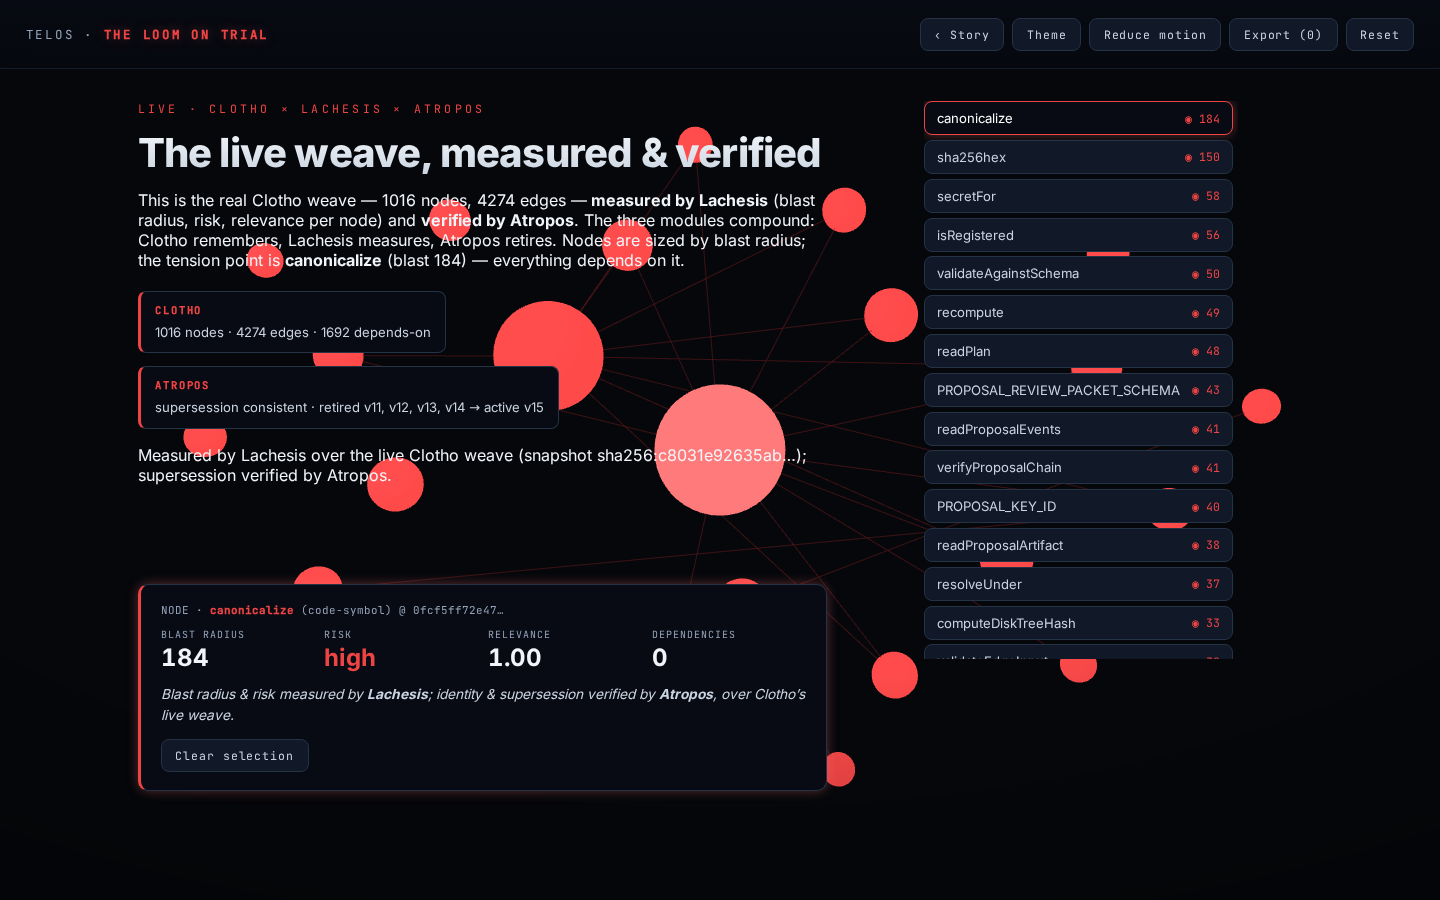
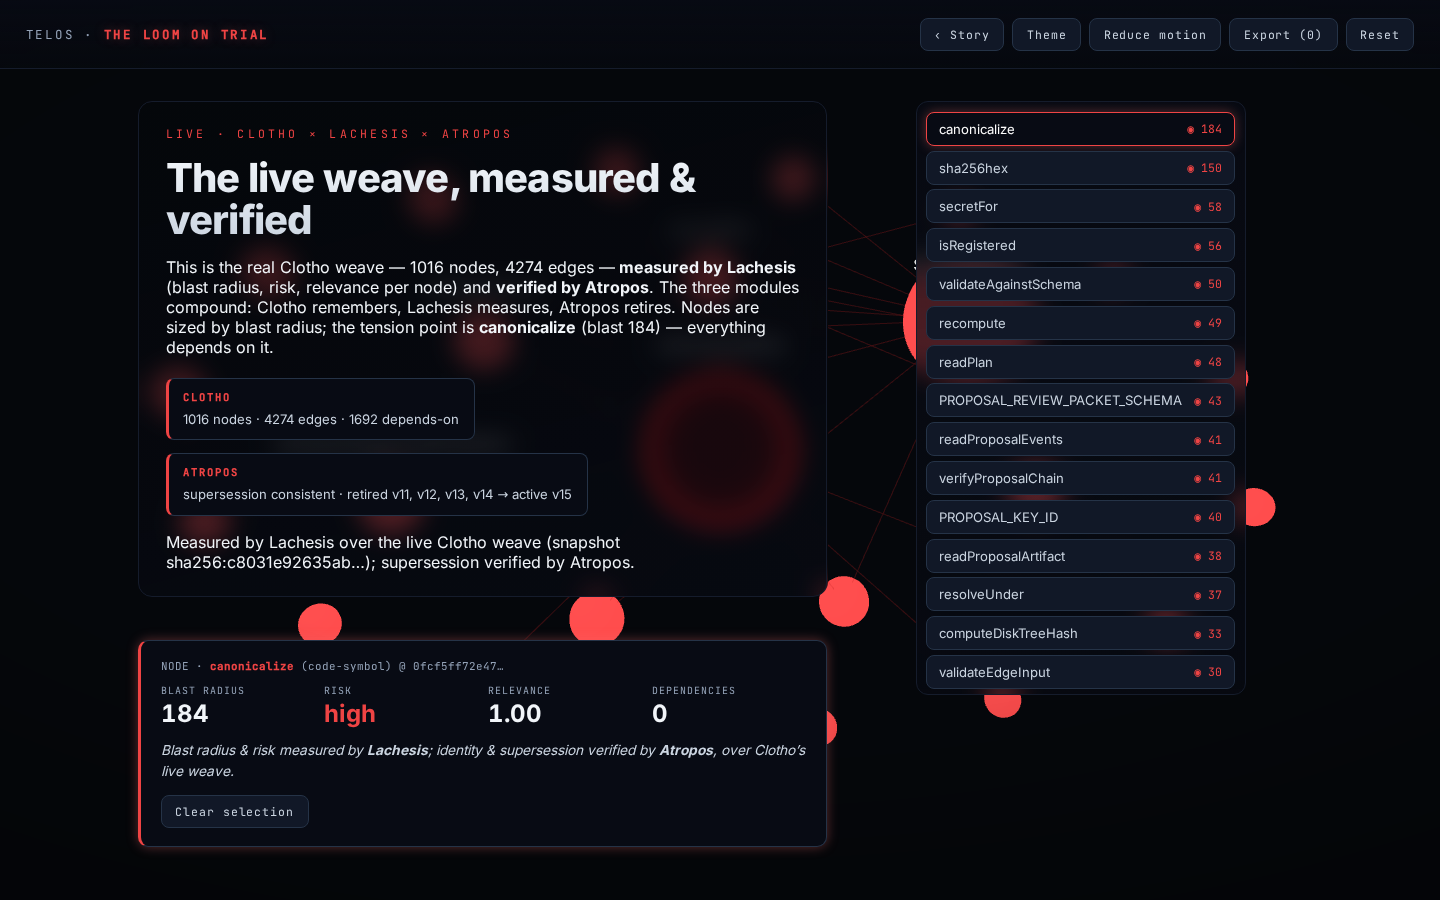
iliad(narcissus argo): reflection-loop pass 1 toward award-tier (labels, ferrofluid hub, layout, PERF -70%)
The Eye approved direction -> refine toward Awwwards-SOTY. This pass: (1) in-scene billboarded labels on the
top nodes (CanvasTexture sprites, no new deps, culled to top 5); (2) fresnel/ferrofluid SHADER on the hub
(canonicalize) — glowing red rim bloom, LEXI-orb lineage; (3) concentric-ring layout + z-parallax (woven
depth); frosted-glass DOM panels so the weave reads cleanly behind them (fixed label/panel collision);
(4) PERF: React.lazy the WebGL canvases + manualChunks -> initial JS 1023KB -> ~305KB (70% cut; three.js
now a 715KB ASYNC chunk after LCP). Invariant intact (WebGL paint, DOM-shadowed, ?e2e=1). All gates green:
tsc+vite, verify-coverage 16/16, verify-evidence 7, Playwright E2E 14/14. Numbers stay real (live weave).

Changed region(s): [[0.0938, 0.0933, 0.9062, 0.9644], [0.2188, 0.0933, 0.25, 0.1244]]

diff --git a/narcissus/flagship/src/components/LiveGraph.tsx b/narcissus/flagship/src/components/LiveGraph.tsx
@@ -1,27 +1,78 @@
 // The live weave, rendered as WebGL PAINT (pointer-events:none, aria-hidden — the DOM list is the truth).
 // Nodes: the top-by-blast-radius nodes Lachesis measured over Clotho's live weave. Size ∝ blast_radius,
-// color = risk_class. The hub (canonicalize, blast 184) sits at the tension point. Edges = subgraph_edges.
+// color = risk_class. The hub (canonicalize) sits at the tension point with a fresnel/ferrofluid shader.
+// Edges = subgraph_edges. Top nodes carry billboarded in-scene labels.
 import { Canvas, useFrame } from "@react-three/fiber";
 import { useMemo, useRef } from "react";
 import * as THREE from "three";
-import { NODES, NODES_BY_BLAST, EDGES, LAYOUT, MAX_BLAST, riskColor } from "../livegraph";
+import { NODES, NODES_BY_BLAST, EDGES, LAYOUT, LABELED_IDS, MAX_BLAST, riskColor, nodeById } from "../livegraph";
+
+// billboarded label as a sprite with a canvas texture (no extra deps; culled to the important nodes).
+function makeLabelTexture(text: string, color: string): THREE.CanvasTexture {
+  const dpr = 2, w = 320, h = 72;
+  const c = document.createElement("canvas");
+  c.width = w * dpr; c.height = h * dpr;
+  const ctx = c.getContext("2d")!;
+  ctx.scale(dpr, dpr);
+  ctx.font = "600 30px Inter, ui-sans-serif, sans-serif";
+  ctx.textAlign = "center"; ctx.textBaseline = "middle";
+  ctx.shadowColor = "rgba(0,0,0,0.9)"; ctx.shadowBlur = 8;
+  ctx.fillStyle = "#f8fafc";
+  ctx.fillText(text, w / 2, h / 2);
+  ctx.shadowBlur = 0;
+  ctx.fillStyle = color;
+  ctx.fillRect(w / 2 - 22, h - 14, 44, 3);
+  const tex = new THREE.CanvasTexture(c);
+  tex.needsUpdate = true;
+  tex.minFilter = THREE.LinearFilter;
+  return tex;
+}
+
+const hubVert = /* glsl */`
+  varying vec3 vN; varying vec3 vV;
+  void main(){
+    vN = normalize(normalMatrix * normal);
+    vec4 mv = modelViewMatrix * vec4(position, 1.0);
+    vV = normalize(-mv.xyz);
+    gl_Position = projectionMatrix * mv;
+  }`;
+const hubFrag = /* glsl */`
+  uniform float uTime; uniform vec3 uColor;
+  varying vec3 vN; varying vec3 vV;
+  void main(){
+    float fres = pow(1.0 - max(dot(vN, vV), 0.0), 2.4);
+    float pulse = 0.86 + 0.14 * sin(uTime * 1.8);
+    vec3 col = uColor * (0.3 + fres * 2.6 * pulse);
+    gl_FragColor = vec4(col, 1.0);
+  }`;
 
 function Graph({ selectedNodeId, reducedMotion }: { selectedNodeId: string | null; reducedMotion: boolean }) {
   const group = useRef<THREE.Group>(null);
+  const hubMat = useRef<THREE.ShaderMaterial>(null);
   const hubId = NODES_BY_BLAST[0].id;
 
   const edgePositions = useMemo(() => {
     const arr: number[] = [];
     for (const e of EDGES) {
       const a = LAYOUT[e.from]; const b = LAYOUT[e.to];
-      if (a && b) { arr.push(a[0], a[1], a[2], b[0], b[1], b[2]); }
+      if (a && b) arr.push(a[0], a[1], a[2], b[0], b[1], b[2]);
     }
     return new Float32Array(arr);
   }, []);
 
+  const labels = useMemo(
+    () => LABELED_IDS.map((id) => {
+      const n = nodeById(id)!;
+      return { id, pos: LAYOUT[id], tex: makeLabelTexture(n.label, riskColor(n.risk_class)) };
+    }),
+    [],
+  );
+
   useFrame((state) => {
+    if (hubMat.current) hubMat.current.uniforms.uTime.value = state.clock.elapsedTime;
     if (reducedMotion || !group.current) return;
-    group.current.rotation.y = Math.sin(state.clock.elapsedTime * 0.1) * 0.25;
+    group.current.rotation.y = Math.sin(state.clock.elapsedTime * 0.09) * 0.22;
+    group.current.rotation.x = Math.sin(state.clock.elapsedTime * 0.05) * 0.05;
   });
 
   return (
@@ -30,25 +81,37 @@ function Graph({ selectedNodeId, reducedMotion }: { selectedNodeId: string | nul
         <bufferGeometry>
           <bufferAttribute attach="attributes-position" args={[edgePositions, 3]} />
         </bufferGeometry>
-        <lineBasicMaterial color="#7f1d1d" transparent opacity={0.45} toneMapped={false} />
+        <lineBasicMaterial color="#b91c1c" transparent opacity={0.28} toneMapped={false} />
       </lineSegments>
+
       {NODES.map((n) => {
         const p = LAYOUT[n.id];
-        const size = 0.13 + (n.blast_radius / MAX_BLAST) * 0.55;
+        const size = 0.14 + (n.blast_radius / MAX_BLAST) * 0.72;
         const color = riskColor(n.risk_class);
         const sel = n.id === selectedNodeId;
         const hub = n.id === hubId;
+        if (hub) {
+          return (
+            <mesh key={n.id} position={p}>
+              <sphereGeometry args={[size, 48, 48]} />
+              <shaderMaterial ref={hubMat} vertexShader={hubVert} fragmentShader={hubFrag}
+                uniforms={{ uTime: { value: 0 }, uColor: { value: new THREE.Color("#ef4444") } }} toneMapped={false} />
+            </mesh>
+          );
+        }
         return (
           <mesh key={n.id} position={p}>
-            <sphereGeometry args={[size, 22, 22]} />
-            <meshStandardMaterial
-              color={color} emissive={color}
-              emissiveIntensity={sel ? 3.2 : hub ? 2.3 : 1.05}
-              toneMapped={false}
-            />
+            <sphereGeometry args={[size, 24, 24]} />
+            <meshStandardMaterial color={color} emissive={color} emissiveIntensity={sel ? 3.4 : 1.15} toneMapped={false} />
           </mesh>
         );
       })}
+
+      {labels.map((l) => (
+        <sprite key={l.id} position={[l.pos[0], l.pos[1] + (l.id === hubId ? 1.15 : 0.62), l.pos[2]]} scale={[2.5, 0.56, 1]}>
+          <spriteMaterial map={l.tex} transparent depthWrite={false} depthTest={false} />
+        </sprite>
+      ))}
     </group>
   );
 }
@@ -58,11 +121,11 @@ export function LiveGraphCanvas({ selectedNodeId, reducedMotion, theme }: {
 }) {
   return (
     <div className="loom-canvas" aria-hidden="true">
-      <Canvas camera={{ position: [0, 0, 11], fov: 46 }} dpr={[1, 2]} gl={{ antialias: true }} frameloop={reducedMotion ? "demand" : "always"}>
+      <Canvas camera={{ position: [0, 0, 12], fov: 46 }} dpr={[1, 2]} gl={{ antialias: true }} frameloop={reducedMotion ? "demand" : "always"}>
         <color attach="background" args={[theme === "dark" ? "#05070b" : "#dee2e7"]} />
         <ambientLight intensity={0.4} />
-        <pointLight position={[0, 0, 8]} intensity={70} color="#ef4444" distance={40} />
-        <pointLight position={[-7, 5, 5]} intensity={22} color="#00e5ff" distance={30} />
+        <pointLight position={[0, 0, 9]} intensity={80} color="#ef4444" distance={44} />
+        <pointLight position={[-8, 6, 5]} intensity={24} color="#00e5ff" distance={34} />
         <Graph selectedNodeId={selectedNodeId} reducedMotion={reducedMotion} />
       </Canvas>
     </div>

diff --git a/narcissus/flagship/vite.config.ts b/narcissus/flagship/vite.config.ts
@@ -1,3 +1,23 @@
 import { defineConfig } from "vite";
 import react from "@vitejs/plugin-react";
-export default defineConfig({ plugins: [react()], server: { port: 4317 }, preview: { port: 4317 } });
+
+// three.js + react-three-fiber are only reached through React.lazy(Loom/LiveGraph), so they land in an
+// async "webgl" chunk — the initial payload (react + xstate + the DOM story = the LCP content) stays lean.
+export default defineConfig({
+  plugins: [react()],
+  server: { port: 4317 },
+  preview: { port: 4317 },
+  build: {
+    chunkSizeWarningLimit: 900,
+    rollupOptions: {
+      output: {
+        manualChunks(id) {
+          if (!id.includes("node_modules")) return undefined;
+          if (id.includes("three") || id.includes("@react-three")) return "webgl";
+          if (id.includes("react") || id.includes("xstate") || id.includes("scheduler")) return "vendor";
+          return undefined;
+        },
+      },
+    },
+  },
+});

diff --git a/narcissus/flagship/src/livegraph.ts b/narcissus/flagship/src/livegraph.ts
@@ -27,15 +27,24 @@ export function riskColor(risk: string): string {
   return risk === "high" ? "#ef4444" : risk === "medium" ? "#f59e0b" : "#3b82f6";
 }
 
-// deterministic phyllotaxis layout: the hub (max blast) at the tension point (center), the rest on a spiral.
+// in-scene labels: only the most important nodes are labelled in the 3D scene (culled by importance),
+// so the hub + top tier read clearly without muddying the field.
+export const LABELED_IDS = NODES_BY_BLAST.slice(0, 5).map((n) => n.id);
+
+// deterministic CONCENTRIC-RING layout: the hub (max blast) at the tension point (center); the next tier on
+// an inner ring; the rest on an outer ring — with z-parallax so the weave reads as woven depth, not flat.
 export const LAYOUT: Record<string, [number, number, number]> = (() => {
   const pos: Record<string, [number, number, number]> = {};
-  const golden = 2.39996323;
+  const total = NODES_BY_BLAST.length;
   NODES_BY_BLAST.forEach((n, i) => {
-    if (i === 0) { pos[n.id] = [0, 0, 0]; return; }
-    const r = 1.5 + Math.sqrt(i) * 0.95;
-    const a = i * golden;
-    pos[n.id] = [Math.cos(a) * r, Math.sin(a) * r * 0.6, -0.25 * (i % 4)];
+    if (i === 0) { pos[n.id] = [0, 0, 0.4]; return; } // hub, pulled slightly forward — dominates
+    const ring = i <= 7 ? 1 : 2;
+    const posInRing = ring === 1 ? i - 1 : i - 8;
+    const ringCount = ring === 1 ? 7 : Math.max(1, total - 8);
+    const r = ring === 1 ? 3.6 : 6.1;
+    const a = (posInRing / ringCount) * Math.PI * 2 + ring * 0.7;
+    const z = Math.sin(a * 2 + ring) * 1.35 - ring * 0.6; // woven depth / parallax
+    pos[n.id] = [Math.cos(a) * r, Math.sin(a) * r * 0.62, z];
   });
   return pos;
 })();

diff --git a/narcissus/flagship/src/components/DomLayer.tsx b/narcissus/flagship/src/components/DomLayer.tsx
@@ -3,12 +3,15 @@
 // data-testid={`cmd-${COMMAND}`} makes the command registry the closed E2E inventory. Two views: the story
 // stations, and the LIVE GRAPH (Clotho weave measured by Lachesis + verified by Atropos).
 import { useMachine } from "@xstate/react";
-import { useEffect } from "react";
+import { useEffect, lazy, Suspense } from "react";
 import { flagshipMachine } from "../machine";
 import { STATIONS, STATION_COUNT, evidenceById } from "../stations";
 import { NODES_BY_BLAST, CLOTHO, ATROPOS, SNAPSHOT, riskColor, nodeById } from "../livegraph";
-import { Loom } from "./Loom";
-import { LiveGraphCanvas } from "./LiveGraph";
+
+// The WebGL canvases (three.js — the heavy chunk) are lazy-loaded so the DOM story (the LCP content) paints
+// immediately; three streams in as an async chunk. WebGL is paint, so a deferred canvas never blocks the app.
+const Loom = lazy(() => import("./Loom").then((m) => ({ default: m.Loom })));
+const LiveGraphCanvas = lazy(() => import("./LiveGraph").then((m) => ({ default: m.LiveGraphCanvas })));
 
 export function DomLayer() {
   const [state, send] = useMachine(flagshipMachine);
@@ -22,9 +25,11 @@ export function DomLayer() {
 
   return (
     <>
-      {inGraph
-        ? <LiveGraphCanvas selectedNodeId={c.selectedNodeId} reducedMotion={c.reducedMotion} theme={c.theme} />
-        : <Loom stationIndex={c.stationIndex} threadPulled={c.threadPulled} reducedMotion={c.reducedMotion} theme={c.theme} />}
+      <Suspense fallback={null}>
+        {inGraph
+          ? <LiveGraphCanvas selectedNodeId={c.selectedNodeId} reducedMotion={c.reducedMotion} theme={c.theme} />
+          : <Loom stationIndex={c.stationIndex} threadPulled={c.threadPulled} reducedMotion={c.reducedMotion} theme={c.theme} />}
+      </Suspense>
       <div className="vignette" aria-hidden="true" />
       <main className="stage">
         <header className="topbar">

diff --git a/narcissus/flagship/src/index.css b/narcissus/flagship/src/index.css
@@ -104,7 +104,7 @@ button[aria-pressed="true"], button.primary { color: #fff; border-color: var(--a
 /* ---- Live Graph view ---- */
 .graph-view { align-items: start; padding: 2rem 2.6rem; overflow-y: auto; }
 .graph-view { display: grid; grid-template-columns: minmax(0, 1.4fr) minmax(15rem, 0.9fr); grid-template-rows: auto auto; gap: 1.4rem 2rem; width: 100%; max-width: 78rem; margin: 0 auto; }
-.graph-intro { grid-column: 1; grid-row: 1; }
+.graph-intro { grid-column: 1; grid-row: 1; background: linear-gradient(165deg, rgba(5,7,11,0.86), rgba(8,11,20,0.66)); backdrop-filter: blur(12px); border: 1px solid var(--edge); border-radius: 14px; padding: 1.5rem 1.7rem; }
 .graph-intro h1 { font-size: clamp(1.6rem, 3.4vw, 2.5rem); line-height: 1.05; font-weight: 800; letter-spacing: -0.02em; background: linear-gradient(180deg, var(--fg), var(--fg-muted)); -webkit-background-clip: text; background-clip: text; color: transparent; margin: 0.6rem 0 1rem; }
 .graph-intro .body b { color: var(--fg); }
 .compound-panels { display: flex; gap: 0.8rem; margin-top: 1.3rem; flex-wrap: wrap; }
@@ -113,7 +113,7 @@ button[aria-pressed="true"], button.primary { color: #fff; border-color: var(--a
 .mini-panel span { font-size: 0.82rem; color: var(--fg-muted); }
 .graph-intro .src { margin-top: 1rem; }
 
-.node-list { grid-column: 2; grid-row: 1 / span 2; display: flex; flex-direction: column; gap: 0.3rem; max-height: 62vh; overflow-y: auto; padding-right: 0.3rem; }
+.node-list { grid-column: 2; grid-row: 1 / span 2; display: flex; flex-direction: column; gap: 0.3rem; max-height: 66vh; overflow-y: auto; padding: 0.6rem; background: linear-gradient(180deg, rgba(8,11,20,0.82), rgba(8,11,20,0.6)); backdrop-filter: blur(12px); border: 1px solid var(--edge); border-radius: 12px; }
 .node-row { display: flex; align-items: center; justify-content: space-between; gap: 0.75rem; text-align: left; font-family: var(--font-display); font-size: 0.82rem; letter-spacing: 0; padding: 0.5rem 0.75rem; }
 .node-row .node-label { color: var(--fg-muted); overflow: hidden; text-overflow: ellipsis; white-space: nowrap; }
 .node-row .node-blast { font-family: var(--font-mono); font-size: 0.72rem; }